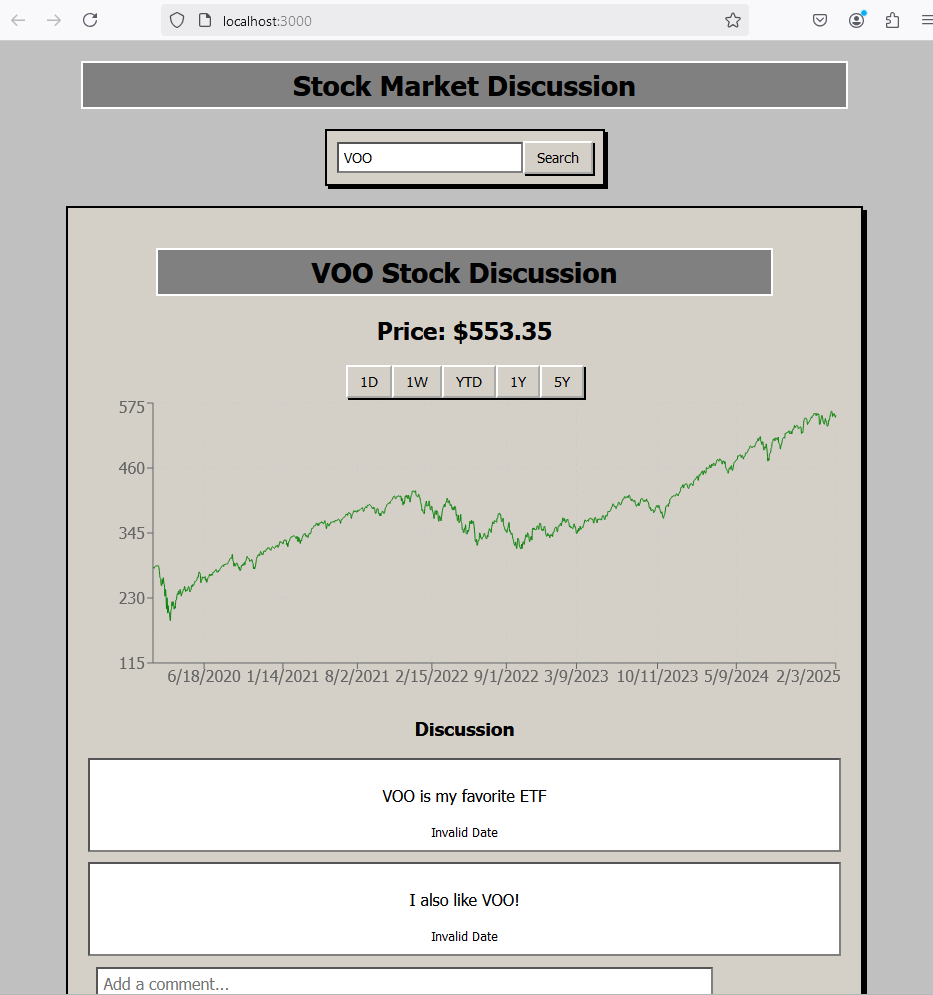
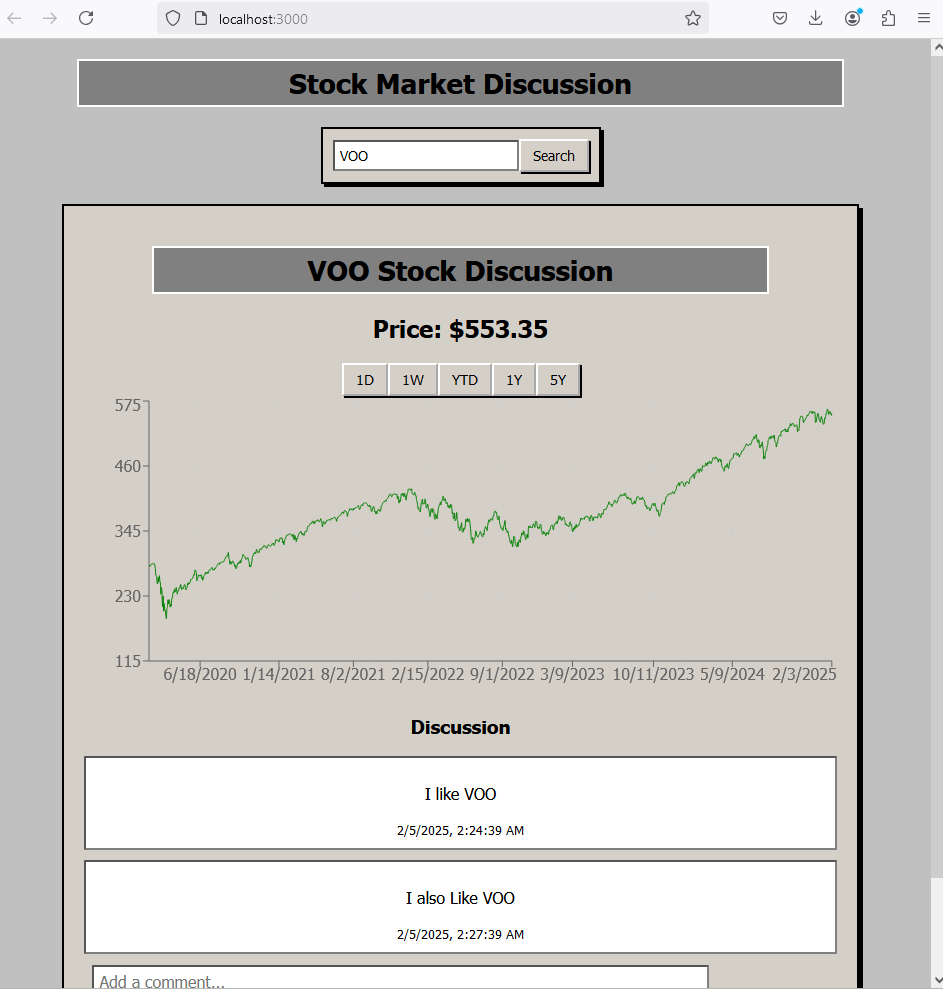
Fixed discussion posts not loading and date issues

diff --git a/Backend/app.py b/Backend/app.py
@@ -44,11 +44,12 @@ def get_stock_data(ticker):
     try:
         stock_price = get_price(ticker)
         historical_data = get_historical_data(ticker, period="5y")  # Fetch 5 years of data
+        discussion_posts = get_posts(ticker)  # Fetch posts for this ticker
 
         return jsonify({
             "stock_price": stock_price,
             "historical_data": historical_data,
-            "posts": []  # Placeholder for discussion posts
+            "posts": discussion_posts  # Now includes the actual posts
         })
     
     except Exception as e:
